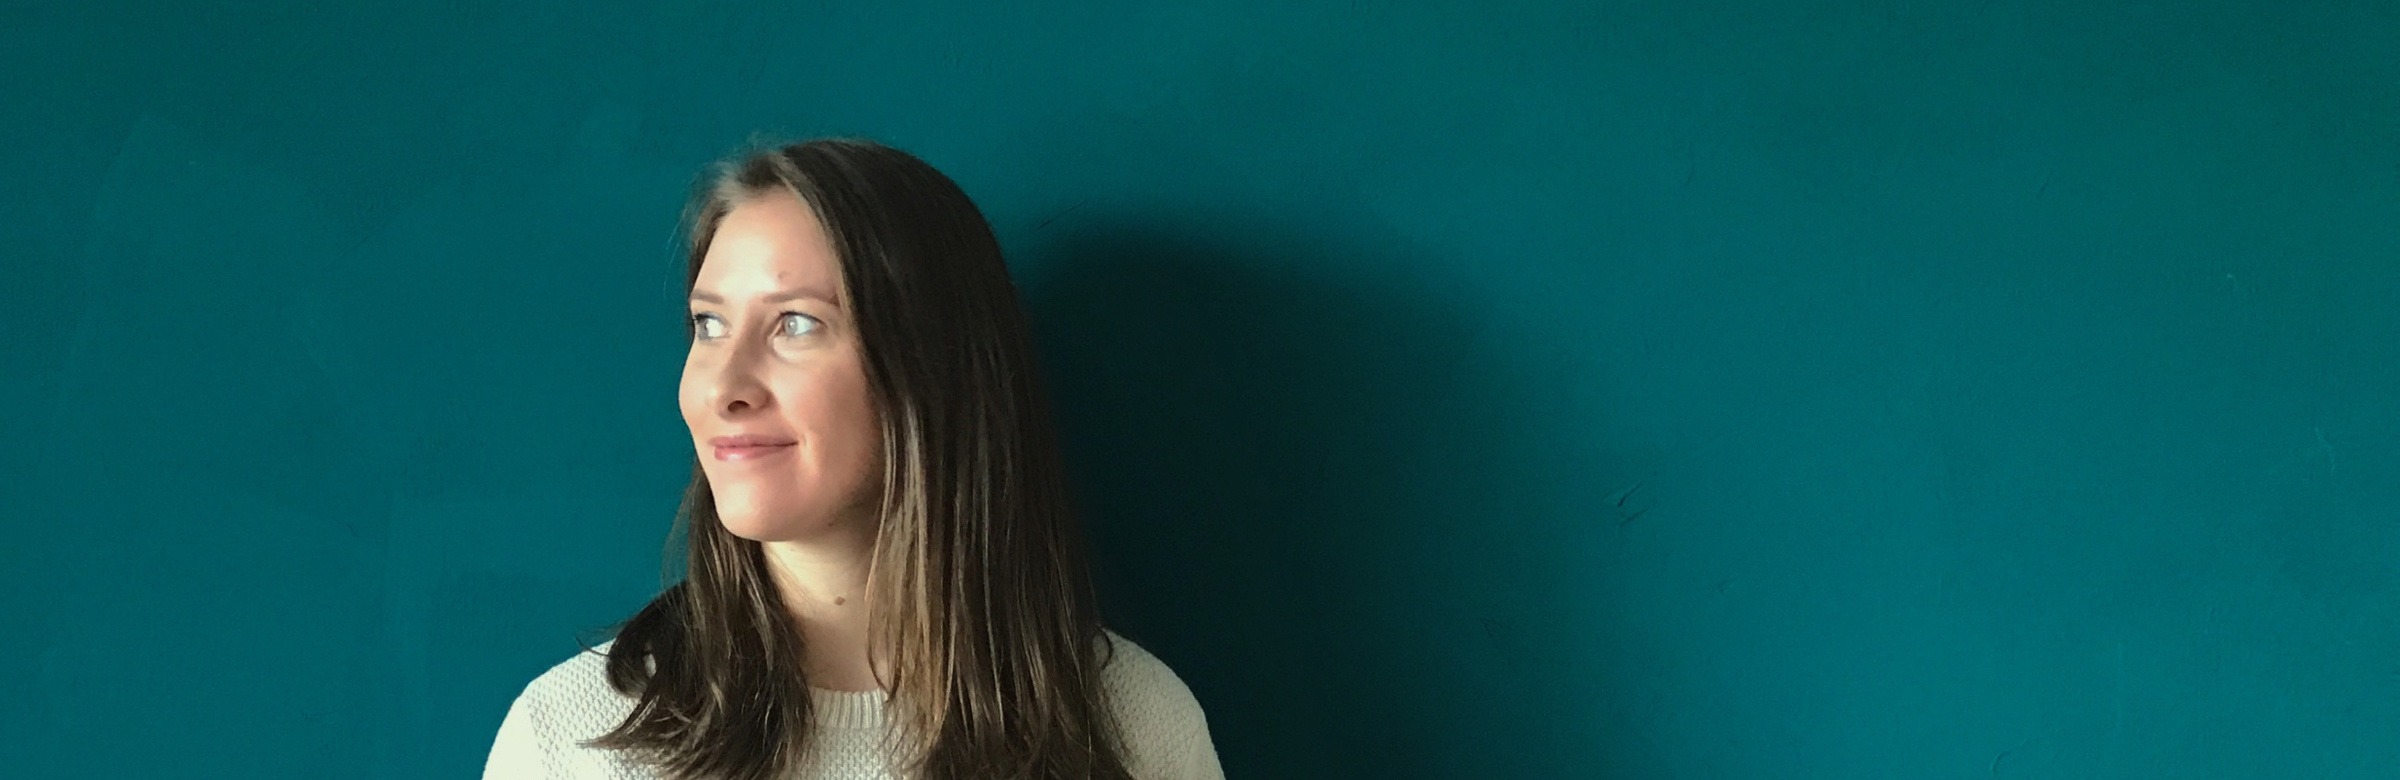
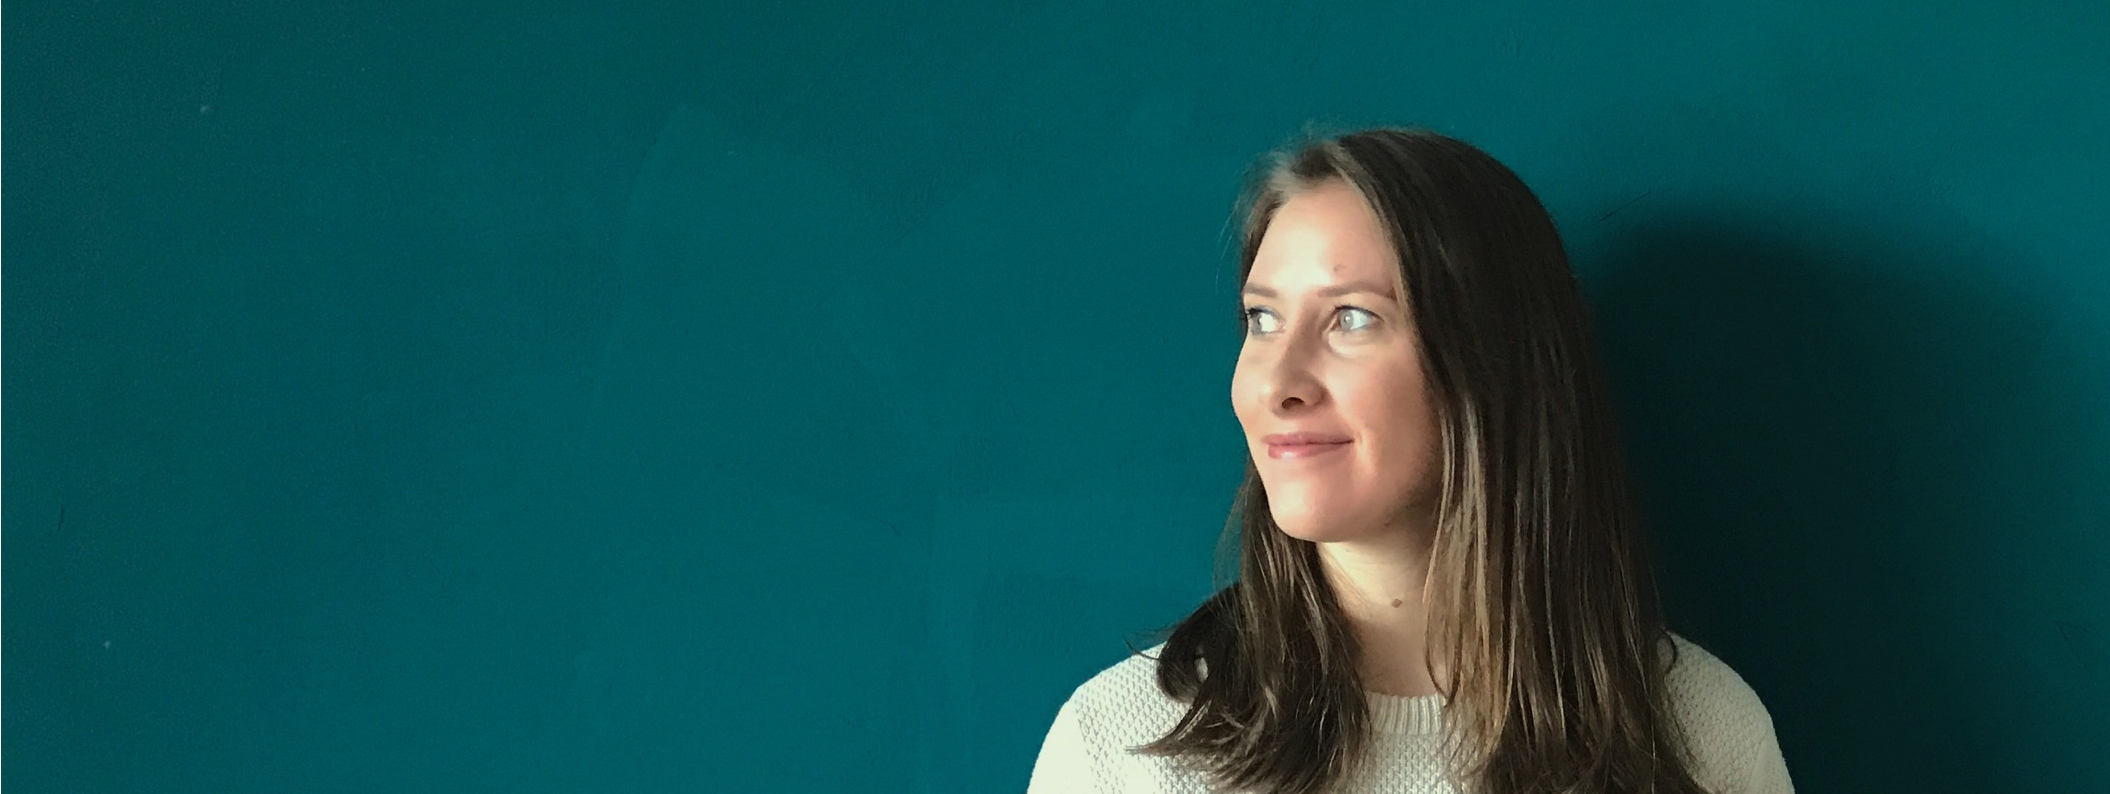
Modified the cover of pofo

diff --git a/app/components/intro.css b/app/components/intro.css
@@ -1,14 +1,13 @@
 .intro {
-  margin: 140px 80px 0 0;
+  margin: 180px 0 0 80px;
   color: white;
   text-align: center;
   padding: 0 5%;
   width: 561px;
-  float: right;
+  float: left;
 }
 
 .intro h1 {
-  font-family: 'ShorelinesScript';
   font-weight: 100;
   font-size: 42px;
   margin: 0;

diff --git a/app/components/cover.css b/app/components/cover.css
@@ -1,5 +1,5 @@
 .cover {
-  height: 500px;
+  height: 550px;
   background: url(../../public/images/cover.jpg) no-repeat center center;
   background-size: cover;
 }
